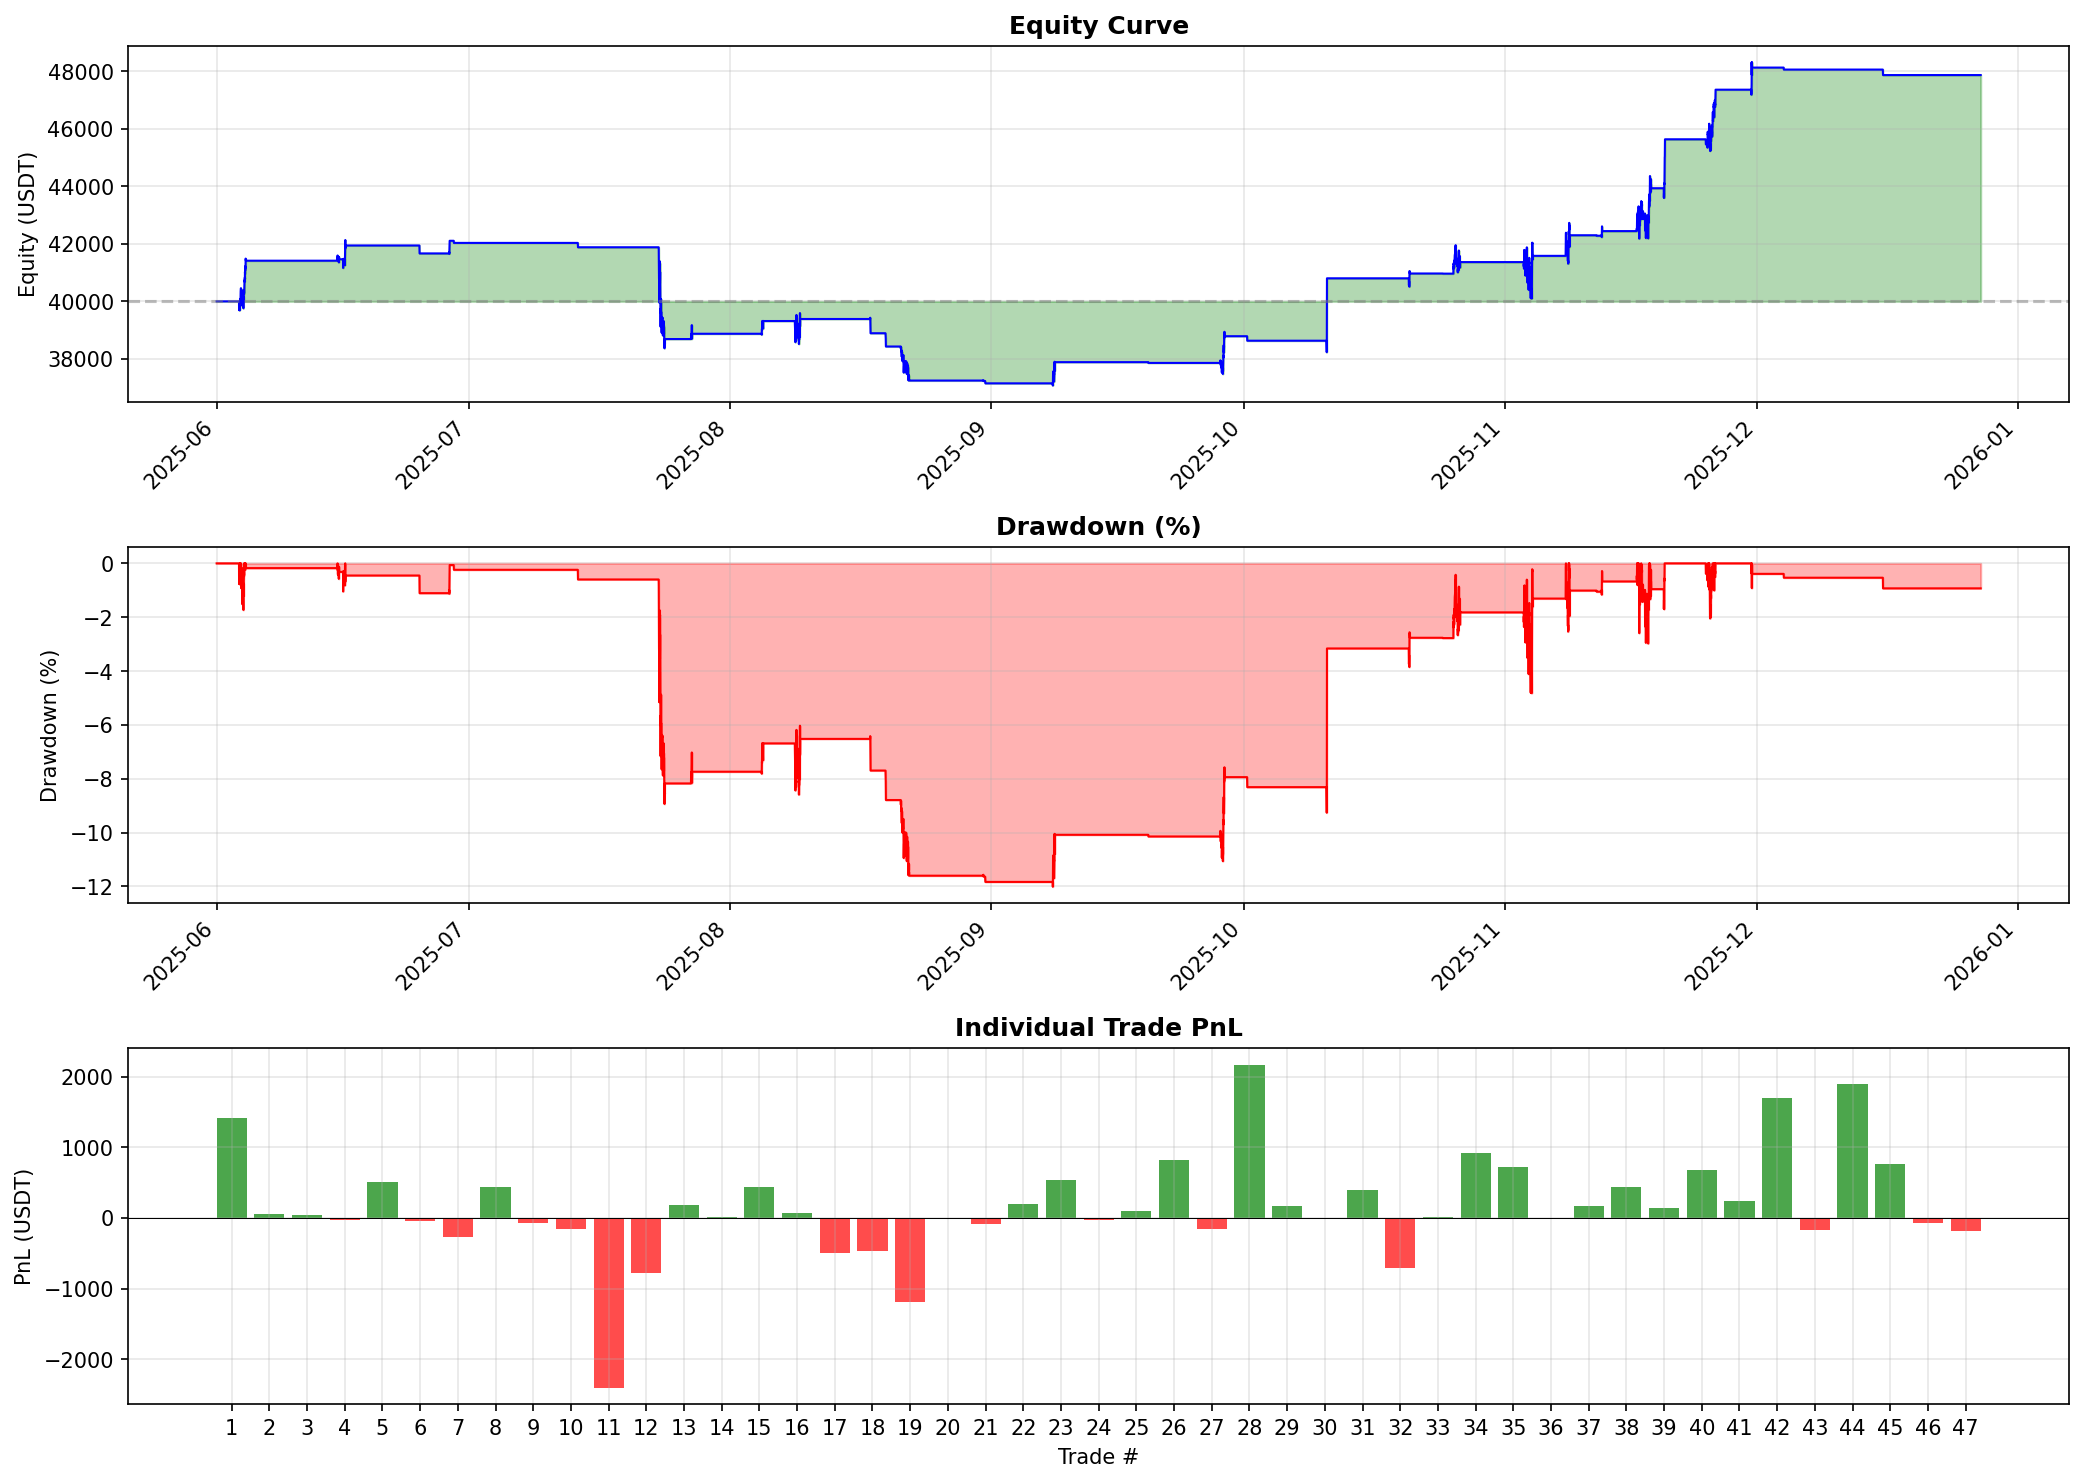
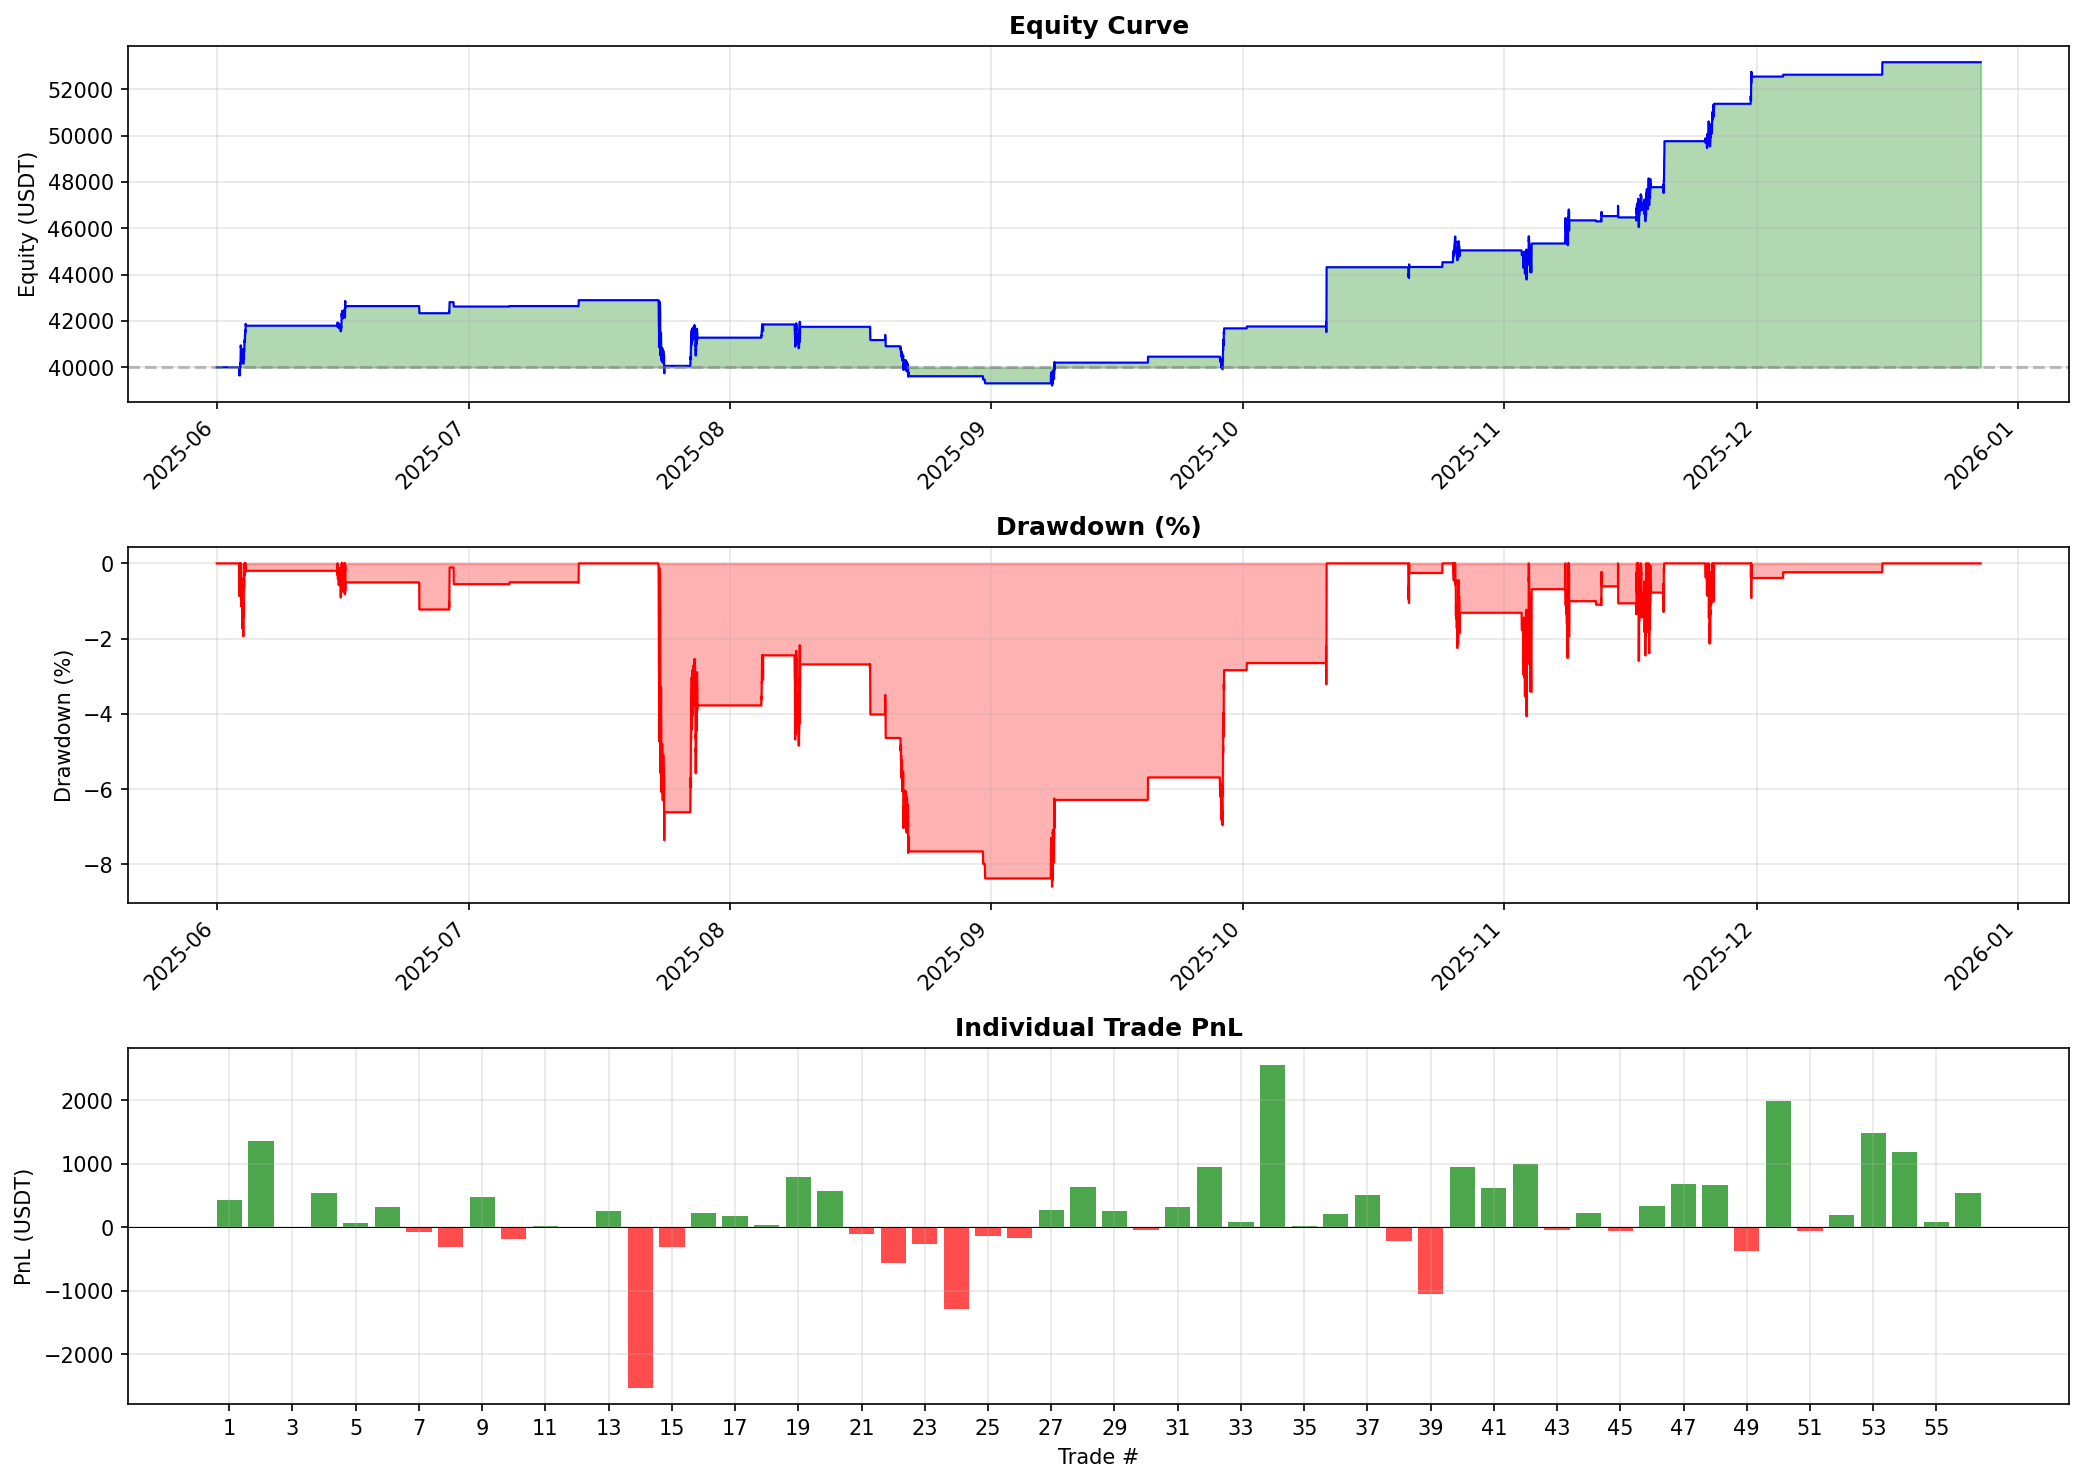
upd _watches with new spread_mean and spread_std

diff --git a/backtests/run_backtest.py b/backtests/run_backtest.py
@@ -309,8 +309,8 @@ class BacktestConfig:
     use_dynamic_tp: bool = True  # Use dynamic take profit
 
     # Trailing Entry settings (simulation of live EntryObserverService)
-    use_trailing_entry: bool = True  # Enable trailing entry simulation
-    trailing_pullback: float = 0.05  # Z-score pullback for reversal confirmation
+    use_trailing_entry: bool = False  # Enable trailing entry simulation
+    trailing_pullback: float = 0.03  # Z-score pullback for reversal confirmation
     trailing_timeout_minutes: int = 180  # Max watch duration before cancellation
 
 
@@ -340,6 +340,11 @@ class Position:
     primary_entry_price: float
     primary_size: float  # = coin_size * beta, in USDT terms
 
+    # Peak Z-score during trailing entry (for dynamic TP calculation)
+    # If trailing entry was used, this is the max |Z| before pullback
+    # Otherwise equals abs(entry_z_score)
+    peak_z_score: float = 0.0
+
 
 @dataclass
 class BacktestWatchCandidate:
@@ -357,6 +362,7 @@ class BacktestWatchCandidate:
     start_bar_idx: int
     start_time: datetime
     beta: float
+    spread_mean: float
     spread_mean: float
     spread_std: float
     z_entry_threshold: float
@@ -843,26 +849,33 @@ class StatArbBacktest:
         """
         Calculate time-based coefficient for dynamic TP threshold.
 
-        As position ages, we become more aggressive with TP (lower threshold).
-        This matches the live bot's ExitObserverService.get_time_based_coefficient().
+        As position ages, we accept less reversion (higher coefficient = easier TP).
+        The coefficient is multiplied by peak_z_score to get the TP threshold.
+
+        Example with peak_z = 3.0:
+        - 0-4h:   coef=0.1 -> TP at Z=0.3 (wait for ideal ~90% reversion)
+        - 4-12h:  coef=0.3 -> TP at Z=0.9 (accept ~70% reversion)
+        - 12-24h: coef=0.5 -> TP at Z=1.5 (accept ~50% reversion)
+        - 24h+:   TIME_STOP -> close at market (handled separately)
 
         Args:
             bars_held: Number of bars the position has been held.
 
         Returns:
-            Coefficient to multiply z_tp_threshold by.
+            Coefficient to multiply peak_z_score by.
+            Returns None (via special value) for time stop after 24h.
         """
-        # Convert bars to hours (assuming 15m timeframe)
+        # Convert bars to hours
         hours = bars_held * self._timeframe_minutes / 60
 
         if hours <= 4:
-            return 1.0  # Normal TP threshold
+            return 0.1  # Wait for ideal (~90% reversion)
         elif hours < 12:
-            return 3.0  # More aggressive after 4h
+            return 0.3  # Accept ~70% reversion after 4h
         elif hours < 24:
-            return 5.0  # Even more aggressive after 12h
+            return 0.5  # Accept ~50% reversion after 12h
         else:
-            return 8.0  # Most aggressive after 24h
+            return 1.0  # Time stop - will be handled by TIMEOUT check
 
     async def _check_exits(
         self,
@@ -894,14 +907,21 @@ class StatArbBacktest:
                 z = z_result.current_z_score
 
                 if self.config.use_dynamic_tp:
-                    # Dynamic TP threshold based on time in position
+                    # Dynamic TP based on time in position
+                    # TP threshold = max(peak_z * time_coef, z_tp_threshold)
+                    # 0-4h:   coef=0.1 -> wait for ~90% reversion
+                    # 4-12h:  coef=0.3 -> accept ~70% reversion
+                    # 12-24h: coef=0.5 -> accept ~50% reversion
+                    # 24h+:   handled by TIMEOUT
+                    # Minimum TP level is always z_tp_threshold
                     time_coef = self._get_time_based_tp_coefficient(bars_held)
-                    dynamic_tp = self.config.z_tp_threshold * time_coef
+                    reference_z = position.peak_z_score if position.peak_z_score > 0 else abs(position.entry_z_score)
+                    dynamic_tp = max(reference_z * time_coef, self.config.z_tp_threshold)
                 else:
                     dynamic_tp = self.config.z_tp_threshold
 
                 if position.side == "long":
-                    # Long: entered at Z <= -entry, exit at Z >= tp or Z <= -sl
+                    # Long: entered at Z <= -entry, exit at Z >= -tp or Z <= -sl
                     if z >= -dynamic_tp:  # Z moving toward 0 from negative
                         exit_reason = "TP"
                     elif z <= -self.config.z_sl_threshold:
@@ -1113,10 +1133,10 @@ class StatArbBacktest:
                     )
                     watches_to_remove.append((symbol, None))
                 elif abs_z < watch.z_entry_threshold:
-                    print(f"❌ WATCH FALSE_ALARM {symbol} | Z={live_z:.2f}")
+                    print(f"❌ WATCH FALSE_ALARM on 15m {symbol} | Z={live_z:.2f}")
                     watches_to_remove.append((symbol, "FALSE_ALARM"))
                 elif abs_z >= watch.z_sl_threshold:
-                    print(f"🛑 WATCH SL_HIT {symbol} | Z={live_z:.2f}")
+                    print(f"🛑 WATCH SL_HIT on 15m {symbol} | Z={live_z:.2f}")
                     watches_to_remove.append((symbol, "SL_HIT"))
                 elif abs_z > watch.max_z:
                     watch.max_z = abs_z
@@ -1271,7 +1291,7 @@ class StatArbBacktest:
         coin_size = position_size
         primary_size = position_size * beta
 
-        # Create position
+        # Create position with peak_z from trailing watch
         position = Position(
             symbol=symbol,
             side=watch.side,
@@ -1284,6 +1304,7 @@ class StatArbBacktest:
             coin_size=coin_size,
             primary_entry_price=primary_price,
             primary_size=primary_size,
+            peak_z_score=watch.max_z,  # Store peak Z from trailing
         )
 
         self.positions[symbol] = position
@@ -1333,7 +1354,7 @@ class StatArbBacktest:
         coin_size = position_size
         primary_size = position_size * beta
 
-        # Create position
+        # Create position (peak_z = entry_z for immediate entry)
         position = Position(
             symbol=symbol,
             side=side,
@@ -1346,6 +1367,7 @@ class StatArbBacktest:
             coin_size=coin_size,
             primary_entry_price=primary_price,
             primary_size=primary_size,
+            peak_z_score=abs(z_result.current_z_score),  # No trailing, peak = entry
         )
 
         self.positions[symbol] = position

diff --git a/src/domain/entry_observer/entry_observer.py b/src/domain/entry_observer/entry_observer.py
@@ -188,6 +188,9 @@ class EntryObserverService:
         """
         Handle PendingEntrySignalEvent - start monitoring for reversal.
 
+        If already watching this symbol, update the watch parameters
+        (beta, spread_mean, spread_std, thresholds) but keep max_z progress.
+
         Args:
             event: Pending entry signal with initial Z-score and spread stats.
         """
@@ -196,7 +199,38 @@ class EntryObserverService:
         async with self._lock:
             # Check if already watching this symbol
             if coin in self._watches:
-                self._logger.debug(f"Already watching {coin}, skipping")
+                # Update existing watch with fresh parameters from new scan
+                watch = self._watches[coin]
+                old_beta = watch.beta
+                old_mean = watch.spread_mean
+                old_std = watch.spread_std
+
+                # Update calculation parameters (these change with new data)
+                watch.beta = event.beta
+                watch.spread_mean = event.spread_mean
+                watch.spread_std = event.spread_std
+                watch.correlation = event.correlation
+                watch.hurst = event.hurst
+                watch.z_entry_threshold = event.z_entry_threshold
+                watch.z_tp_threshold = event.z_tp_threshold
+                watch.z_sl_threshold = event.z_sl_threshold
+
+                # Keep max_z - don't reset pullback progress
+                # But recalculate current Z with new parameters
+                new_z = watch.current_z_score
+                abs_new_z = abs(new_z)
+
+                # If new Z is higher than max_z, update it
+                if abs_new_z > watch.max_z:
+                    watch.max_z = abs_new_z
+
+                self._logger.info(
+                    f"🔄 Updated watch {coin} | "
+                    f"β: {old_beta:.3f}→{event.beta:.3f} | "
+                    f"mean: {old_mean:.4f}→{event.spread_mean:.4f} | "
+                    f"std: {old_std:.4f}→{event.spread_std:.4f} | "
+                    f"Z={new_z:.2f} | max_z={watch.max_z:.2f}"
+                )
                 return
 
             # Check max watches limit
